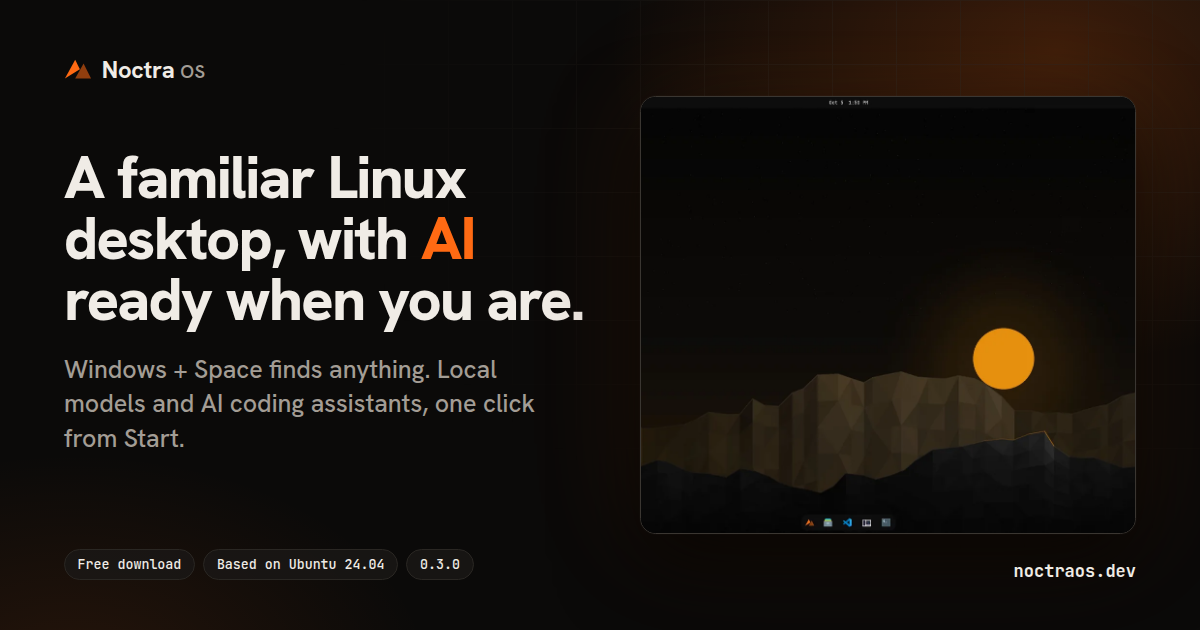
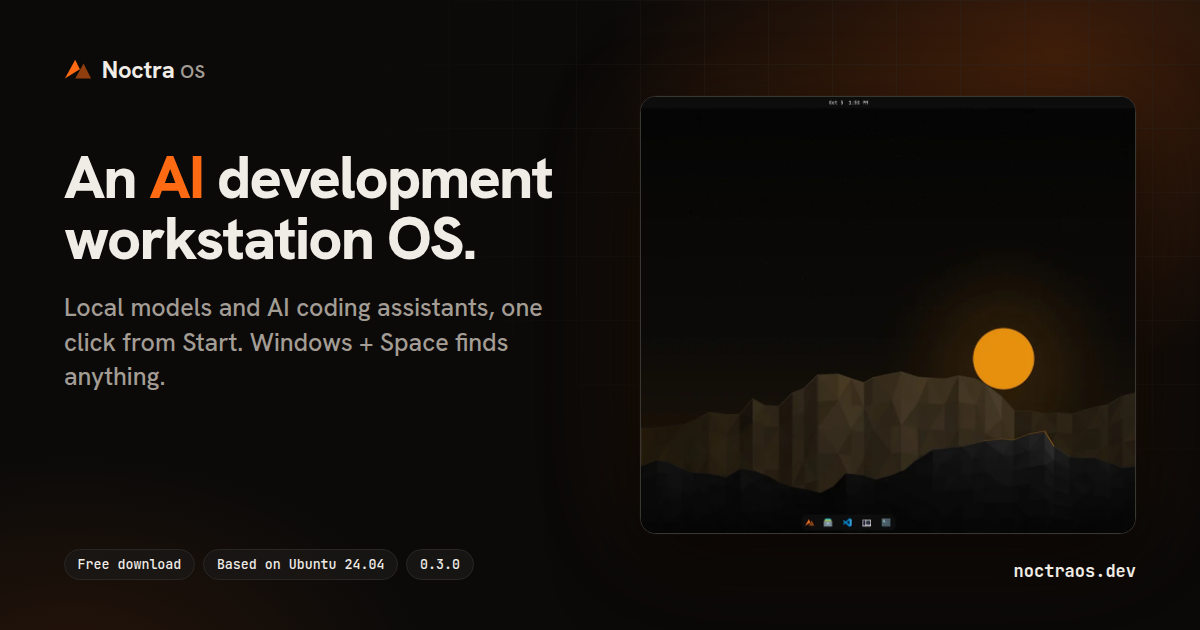
Position NoctraOS as an AI development workstation OS, not a Windows-switcher desktop
Website (titles, descriptions, hero, JSON-LD, manifest), README and the home share card
no longer say 'for people moving from Windows'.

Changed region(s): [[0.0308, 0.2413, 0.4933, 0.7238]]

diff --git a/site/index.html b/site/index.html
@@ -3,11 +3,11 @@
 <head>
 <meta charset="utf-8">
 <meta name="viewport" content="width=device-width, initial-scale=1, viewport-fit=cover">
-<meta name="description" content="Noctra OS is a Linux desktop for people moving from Windows. Windows + Space search, local AI models and AI coding assistants one click from the Start button.">
+<meta name="description" content="Noctra OS is an AI development workstation OS. Local AI models and AI coding assistants one click from the Start button, a ready coding setup, and Windows + Space search.">
 <meta name="theme-color" content="#0b0a09">
 <meta name="color-scheme" content="dark">
 <meta name="robots" content="index, follow, max-image-preview:large">
-<title>Noctra OS: a Linux desktop with AI ready when you are</title>
+<title>Noctra OS: an AI development workstation OS</title>
 <link rel="canonical" href="https://noctraos.dev/">
 <link rel="icon" href="/favicon.svg" type="image/svg+xml">
 <link rel="icon" href="/favicon.ico" sizes="48x48">
@@ -18,20 +18,20 @@
 <meta property="og:type" content="website">
 <meta property="og:site_name" content="Noctra OS">
 <meta property="og:locale" content="en_GB">
-<meta property="og:title" content="Noctra OS: a Linux desktop with AI ready when you are">
-<meta property="og:description" content="Noctra OS is a Linux desktop for people moving from Windows. Windows + Space search, local AI models and AI coding assistants one click from the Start button.">
+<meta property="og:title" content="Noctra OS: an AI development workstation OS">
+<meta property="og:description" content="Noctra OS is an AI development workstation OS. Local AI models and AI coding assistants one click from the Start button, a ready coding setup, and Windows + Space search.">
 <meta property="og:url" content="https://noctraos.dev/">
 <meta property="og:image" content="https://noctraos.dev/img/social/og-home.png">
 <meta property="og:image:type" content="image/png">
 <meta property="og:image:width" content="1200">
 <meta property="og:image:height" content="630">
-<meta property="og:image:alt" content="Noctra OS: a familiar Linux desktop, with AI ready when you are. A dark desktop with a dock and a Start button.">
+<meta property="og:image:alt" content="Noctra OS: an AI development workstation OS. A dark desktop with a dock and a Start button.">
 <meta name="twitter:card" content="summary_large_image">
-<meta name="twitter:title" content="Noctra OS: a Linux desktop with AI ready when you are">
-<meta name="twitter:description" content="Noctra OS is a Linux desktop for people moving from Windows. Windows + Space search, local AI models and AI coding assistants one click from the Start button.">
+<meta name="twitter:title" content="Noctra OS: an AI development workstation OS">
+<meta name="twitter:description" content="Noctra OS is an AI development workstation OS. Local AI models and AI coding assistants one click from the Start button, a ready coding setup, and Windows + Space search.">
 <meta name="twitter:image" content="https://noctraos.dev/img/social/og-home.png">
-<meta name="twitter:image:alt" content="Noctra OS: a familiar Linux desktop, with AI ready when you are. A dark desktop with a dock and a Start button.">
-<script type="application/ld+json">{"@context":"https://schema.org","@graph":[{"@type":"Organization","@id":"https://noctraos.dev/#org","name":"Noctra OS","url":"https://noctraos.dev/","logo":"https://noctraos.dev/icon-512.png","email":"admin@noctraos.dev","sameAs":["https://github.com/dazeb/noctraos"],"contactPoint":{"@type":"ContactPoint","contactType":"customer support","email":"admin@noctraos.dev","availableLanguage":"en"}},{"@type":"WebSite","@id":"https://noctraos.dev/#website","url":"https://noctraos.dev/","name":"Noctra OS","publisher":{"@id":"https://noctraos.dev/#org"},"inLanguage":"en"},{"@type":"SoftwareApplication","@id":"https://noctraos.dev/#os","name":"Noctra OS","applicationCategory":"OperatingSystem","operatingSystem":"Linux (Ubuntu 24.04)","softwareVersion":"0.3.0","description":"A Linux desktop for people moving from Windows, with local AI models and AI coding assistants ready when you are.","url":"https://noctraos.dev/","downloadUrl":"https://noctraos.dev/download","releaseNotes":"https://github.com/dazeb/noctraos/releases/tag/v0.3.0","image":"https://noctraos.dev/img/social/og-home.png","offers":{"@type":"Offer","price":"0","priceCurrency":"USD"},"author":{"@id":"https://noctraos.dev/#org"},"publisher":{"@id":"https://noctraos.dev/#org"}}]}</script>
+<meta name="twitter:image:alt" content="Noctra OS: an AI development workstation OS. A dark desktop with a dock and a Start button.">
+<script type="application/ld+json">{"@context":"https://schema.org","@graph":[{"@type":"Organization","@id":"https://noctraos.dev/#org","name":"Noctra OS","url":"https://noctraos.dev/","logo":"https://noctraos.dev/icon-512.png","email":"admin@noctraos.dev","sameAs":["https://github.com/dazeb/noctraos"],"contactPoint":{"@type":"ContactPoint","contactType":"customer support","email":"admin@noctraos.dev","availableLanguage":"en"}},{"@type":"WebSite","@id":"https://noctraos.dev/#website","url":"https://noctraos.dev/","name":"Noctra OS","publisher":{"@id":"https://noctraos.dev/#org"},"inLanguage":"en"},{"@type":"SoftwareApplication","@id":"https://noctraos.dev/#os","name":"Noctra OS","applicationCategory":"OperatingSystem","operatingSystem":"Linux (Ubuntu 24.04)","softwareVersion":"0.3.0","description":"An AI development workstation OS, with local AI models and AI coding assistants ready when you are.","url":"https://noctraos.dev/","downloadUrl":"https://noctraos.dev/download","releaseNotes":"https://github.com/dazeb/noctraos/releases/tag/v0.3.0","image":"https://noctraos.dev/img/social/og-home.png","offers":{"@type":"Offer","price":"0","priceCurrency":"USD"},"author":{"@id":"https://noctraos.dev/#org"},"publisher":{"@id":"https://noctraos.dev/#org"}}]}</script>
 <link rel="preconnect" href="https://fonts.googleapis.com">
 <link rel="preconnect" href="https://fonts.gstatic.com" crossorigin>
 <link rel="stylesheet" href="https://fonts.googleapis.com/css2?family=Hanken+Grotesk:wght@400;500;600;700&family=JetBrains+Mono:wght@400;500;700&display=swap">
@@ -62,7 +62,7 @@
   <div class="wrap">
     <p class="eyebrow"><span class="dot"></span>Noctra OS 0.3 · based on Ubuntu</p>
     <h1>Install. Detect. <em>Run AI.</em></h1>
-    <p class="lede">Noctra OS is a Linux desktop for people moving from Windows. It detects your graphics card, sets up local AI, and puts the AI coding assistants one click from the Start button.</p>
+    <p class="lede">Noctra OS is an AI development workstation OS. It detects your graphics card, sets up local AI, and puts the AI coding assistants one click from the Start button.</p>
     <div class="cta">
       <a class="btn primary" href="download.html">Download</a>
       <a class="btn ghost" href="features.html">See features</a>
@@ -83,8 +83,8 @@
   <div class="wrap">
     <div class="head">
       <p class="eyebrow"><span class="dot"></span>What is Noctra OS?</p>
-      <h2>A Linux desktop with AI already set up.</h2>
-      <p class="lede">Noctra OS is based on Ubuntu, a familiar starting point if you are new to Linux. Everything sits where a Windows user expects it: a Start button, a dock, window buttons and a task manager. The first time you log in, Noctra sets up the AI models, assistants and coding tools for you.</p>
+      <h2>A development workstation with AI already set up.</h2>
+      <p class="lede">Noctra OS is based on Ubuntu LTS, with a Start button, a dock, window buttons and a task manager. The first time you log in, Noctra sets up the AI models, assistants and coding tools for you.</p>
     </div>
     <div class="highlights">
       <div class="hl">

diff --git a/site/download.html b/site/download.html
@@ -31,7 +31,7 @@
 <meta name="twitter:description" content="Download Noctra OS 0.3.0: the installer ISO, QCOW2 and VMDK virtual machine disks, a one-command Proxmox installer, and SHA-256 checksums.">
 <meta name="twitter:image" content="https://noctraos.dev/img/social/og-download.png">
 <meta name="twitter:image:alt" content="Get NoctraOS 0.3.0: ISO, QCOW2, VMDK and a one-command Proxmox install script shown in a terminal.">
-<script type="application/ld+json">{"@context":"https://schema.org","@graph":[{"@type":"WebPage","@id":"https://noctraos.dev/download#page","url":"https://noctraos.dev/download","name":"Download Noctra OS 0.3.0 · ISO, VM disks, Proxmox script","description":"Download Noctra OS 0.3.0: the installer ISO, QCOW2 and VMDK virtual machine disks, a one-command Proxmox installer, and SHA-256 checksums.","isPartOf":{"@id":"https://noctraos.dev/#website"},"inLanguage":"en"},{"@type":"BreadcrumbList","itemListElement":[{"@type":"ListItem","position":1,"name":"Noctra OS","item":"https://noctraos.dev/"},{"@type":"ListItem","position":2,"name":"Download","item":"https://noctraos.dev/download"}]},{"@type":"SoftwareApplication","@id":"https://noctraos.dev/#os","name":"Noctra OS","applicationCategory":"OperatingSystem","operatingSystem":"Linux (Ubuntu 24.04)","softwareVersion":"0.3.0","description":"A Linux desktop for people moving from Windows, with local AI models and AI coding assistants ready when you are.","url":"https://noctraos.dev/","downloadUrl":"https://noctraos.dev/download","releaseNotes":"https://github.com/dazeb/noctraos/releases/tag/v0.3.0","image":"https://noctraos.dev/img/social/og-home.png","offers":{"@type":"Offer","price":"0","priceCurrency":"USD"},"author":{"@id":"https://noctraos.dev/#org"},"publisher":{"@id":"https://noctraos.dev/#org"}}]}</script>
+<script type="application/ld+json">{"@context":"https://schema.org","@graph":[{"@type":"WebPage","@id":"https://noctraos.dev/download#page","url":"https://noctraos.dev/download","name":"Download Noctra OS 0.3.0 · ISO, VM disks, Proxmox script","description":"Download Noctra OS 0.3.0: the installer ISO, QCOW2 and VMDK virtual machine disks, a one-command Proxmox installer, and SHA-256 checksums.","isPartOf":{"@id":"https://noctraos.dev/#website"},"inLanguage":"en"},{"@type":"BreadcrumbList","itemListElement":[{"@type":"ListItem","position":1,"name":"Noctra OS","item":"https://noctraos.dev/"},{"@type":"ListItem","position":2,"name":"Download","item":"https://noctraos.dev/download"}]},{"@type":"SoftwareApplication","@id":"https://noctraos.dev/#os","name":"Noctra OS","applicationCategory":"OperatingSystem","operatingSystem":"Linux (Ubuntu 24.04)","softwareVersion":"0.3.0","description":"An AI development workstation OS, with local AI models and AI coding assistants ready when you are.","url":"https://noctraos.dev/","downloadUrl":"https://noctraos.dev/download","releaseNotes":"https://github.com/dazeb/noctraos/releases/tag/v0.3.0","image":"https://noctraos.dev/img/social/og-home.png","offers":{"@type":"Offer","price":"0","priceCurrency":"USD"},"author":{"@id":"https://noctraos.dev/#org"},"publisher":{"@id":"https://noctraos.dev/#org"}}]}</script>
 <link rel="preconnect" href="https://fonts.googleapis.com">
 <link rel="preconnect" href="https://fonts.gstatic.com" crossorigin>
 <link rel="stylesheet" href="https://fonts.googleapis.com/css2?family=Hanken+Grotesk:wght@400;500;600;700&family=JetBrains+Mono:wght@400;500;700&display=swap">

diff --git a/scripts/render-social.py b/scripts/render-social.py
@@ -126,8 +126,8 @@ def og_term():
 
 CARDS = {
     "og-home": (1200, 630, "site/img/social", lambda: og(
-        "A familiar Linux desktop, with <em>AI</em> ready when you are.",
-        "Windows + Space finds anything. Local models and AI coding assistants, one click from Start.",
+        "An <em>AI</em> development workstation OS.",
+        "Local models and AI coding assistants, one click from Start. Windows + Space finds anything.",
         og_shot("desktop", "64% 78%"), ["Free download", "Based on Ubuntu 24.04", "0.3.0"])),
     "og-features": (1200, 630, "site/img/social", lambda: og(
         "Search, assistants and local AI, <em>set up</em> for you.",

diff --git a/README.md b/README.md
@@ -4,7 +4,7 @@
 
 <h1 align="center">NoctraOS</h1>
 
-<p align="center"><strong>A familiar Linux desktop, with AI ready when you are.</strong></p>
+<p align="center"><strong>An AI development workstation OS.</strong></p>
 
 <p align="center">
   <a href="https://noctraos.dev/download">Download</a> ·
@@ -13,10 +13,9 @@
   <a href="CONTRIBUTING.md">Contribute</a>
 </p>
 
-NoctraOS is an Ubuntu-based desktop for people moving from Windows. A Start
-button, a dock, familiar window controls, and a short welcome help you settle in.
-Local AI and coding assistants are there when you want them, with a dark desktop
-and a little amber along the way.
+NoctraOS is an Ubuntu-based AI development workstation OS. Local AI and coding
+assistants are one click from the Start button, a short welcome helps you settle
+in, and the desktop is dark with a little amber along the way.
 
 [![The NoctraOS desktop, with a charcoal landscape, amber sun, and centred dock](site/img/shots/desktop.webp)](site/img/shots/full/desktop.webp)
 
